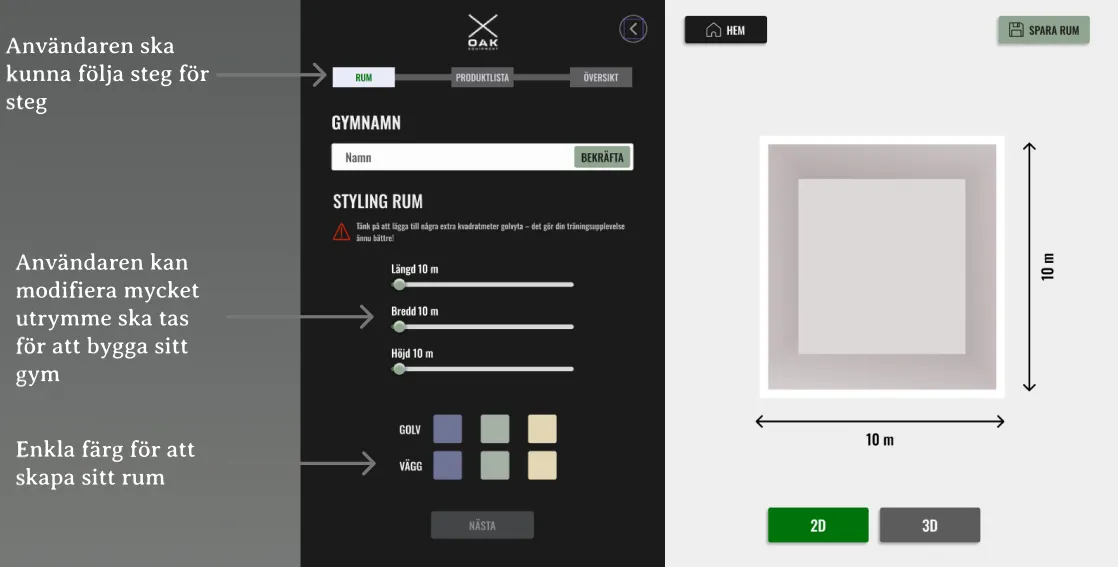
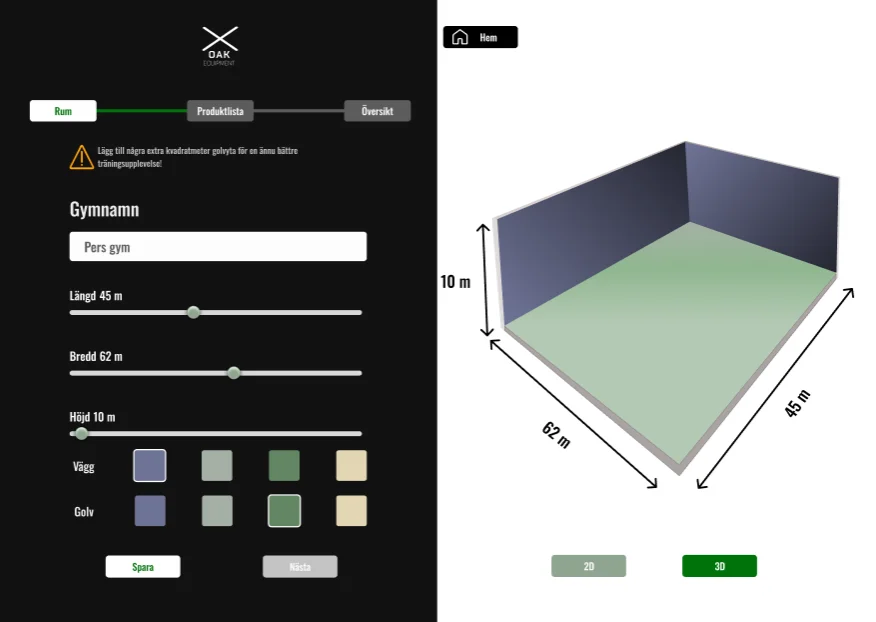
feat: conectar tarjeta OAK con video-demo, actualizar capturas oak_4/oak_5, agregar oak_6 con texto alternativo en 3 idiomas

diff --git a/src/i18n/translations.js b/src/i18n/translations.js
@@ -219,7 +219,7 @@ export const translations = {
             { score: "6/10", text: "Ville hoppa direkt till produktsidan" },
             { score: "5/10", text: "Önskar tydligare progressbar" },
           ],
-          links: [{ label: "Se UX-dokumentation", icon: "↗" }, { label: "Se UI-dokumentation", icon: "↗" }, { label: "Se case study", icon: "→" }],
+          links: [{ label: "Se UX-dokumentation", icon: "↗" }, { label: "Se UI-dokumentation", icon: "↗" }, { label: "Se case study", icon: "→" }, { label: "Se video-demo", icon: "→" }],
           uxRoleTitle: "Min roll · UX",
           uiRoleTitle: "Min roll · UI",
         },
@@ -265,6 +265,7 @@ export const translations = {
         { alt: "OAK — produktkatalog och träningsredskap",       label: "Produktkatalog & träningsredskap" },
         { alt: "OAK — 3D-navigering, zooma och rotera i rummet", label: "3D-navigering · Zooma & rotera" },
         { alt: "OAK — Lo-Fi wireframe version 1",                label: "Lo-Fi wireframe · v1" },
+        { alt: "OAK — produktkatalog och tom 3D-vy utan overlay", label: "Produktkatalog · 3D-vy" },
       ],
       ahr: {
         utmaning:   "Byråchefer förlorade pengar utan att veta varför — Fortnox Tid, Lön och Fakturering kommunicerade inte med varandra.",
@@ -734,7 +735,7 @@ export const translations = {
             { score: "6/10", text: "Wanted to jump directly to product page" },
             { score: "5/10", text: "Clearer progress bar desired" },
           ],
-          links: [{ label: "View UX documentation", icon: "↗" }, { label: "View UI documentation", icon: "↗" }, { label: "View case study", icon: "→" }],
+          links: [{ label: "View UX documentation", icon: "↗" }, { label: "View UI documentation", icon: "↗" }, { label: "View case study", icon: "→" }, { label: "See video demo", icon: "→" }],
           uxRoleTitle: "My role · UX",
           uiRoleTitle: "My role · UI",
         },
@@ -780,6 +781,7 @@ export const translations = {
         { alt: "OAK — product catalogue and equipment",        label: "Product catalogue & equipment" },
         { alt: "OAK — 3D navigation, zoom and rotate",         label: "3D navigation · Zoom & rotate" },
         { alt: "OAK — Lo-Fi wireframe version 1",              label: "Lo-Fi wireframe · v1" },
+        { alt: "OAK — product catalog and empty 3D view without overlay", label: "Product catalog · 3D view" },
       ],
       ahr: {
         utmaning:   "Agency managers were losing money without knowing why — Fortnox Time, Payroll and Invoicing did not communicate with each other.",
@@ -1244,7 +1246,7 @@ export const translations = {
             { score: "6/10", text: "Quería ir directo a la página de producto" },
             { score: "5/10", text: "Barra de progreso más clara deseada" },
           ],
-          links: [{ label: "Ver documentación UX", icon: "↗" }, { label: "Ver documentación UI", icon: "↗" }, { label: "Ver case study", icon: "→" }],
+          links: [{ label: "Ver documentación UX", icon: "↗" }, { label: "Ver documentación UI", icon: "↗" }, { label: "Ver case study", icon: "→" }, { label: "Ver video demo", icon: "→" }],
           uxRoleTitle: "Mi rol · UX",
           uiRoleTitle: "Mi rol · UI",
         },
@@ -1290,6 +1292,7 @@ export const translations = {
         { alt: "OAK — catálogo de productos y equipamiento",             label: "Catálogo de productos & equipamiento" },
         { alt: "OAK — navegación 3D, zoom y rotación",                   label: "Navegación 3D · Zoom & rotación" },
         { alt: "OAK — Lo-Fi wireframe versión 1",                        label: "Lo-Fi wireframe · v1" },
+        { alt: "OAK — catálogo de productos y vista 3D vacía sin overlay", label: "Catálogo de productos · vista 3D" },
       ],
       ahr: {
         utmaning:   "Los directores de agencia perdían dinero sin saber por qué — Fortnox Tiempo, Nómina y Facturación no se comunicaban entre sí.",

diff --git a/src/components/ProjekterIsland.jsx b/src/components/ProjekterIsland.jsx
@@ -11,13 +11,13 @@ const LB_LABELS = {
 
 
 const AHR_IMGS = ["/images/ahr_1.webp", "/images/ahr_2.webp", "/images/ahr_3.webp"];
-const OAK_IMGS = ["/images/oak_1.webp", "/images/oak_2.webp", "/images/oak_3.webp", "/images/oak_4.webp", "/images/oak_5.webp"];
+const OAK_IMGS = ["/images/oak_1.webp", "/images/oak_2.webp", "/images/oak_3.webp", "/images/oak_4.webp", "/images/oak_5.webp", "/images/oak_6.webp"];
 
 const PROJECT_IMAGES  = ["/images/oak.webp", "/images/solenia.webp", "/images/magasin.webp"];
 const PROJECT_COLORS  = ["#90a590", "#ffa205", "#00a6b4"];
 const PROJECT_IDS     = ["oak", "ehandel", "magasin"];
 const PROJECT_LINKS   = [
-  [{ url: "/OAK-UX.pdf", external: false }, { url: "/OAK-UI.pdf", external: false }, { url: "/projekter/oak-case", external: false, internal: true }],
+  [{ url: "/OAK-UX.pdf", external: false }, { url: "/OAK-UI.pdf", external: false }, { url: "/projekter/oak-case", external: false, internal: true }, { url: "/uxuidesign/1", external: false, internal: true }],
   [{ url: "https://solenia.netlify.app/", external: true }, { url: "https://github.com/LordNelson83/Nelson_Portfolio", external: true }],
   [{ url: "/Magasin.pdf", external: false }],
 ];

diff --git a/src/components/OakCaseIsland.jsx b/src/components/OakCaseIsland.jsx
@@ -8,7 +8,7 @@ const LB_LABELS = {
 };
 
 
-const IMGS = ["/images/oak_1.webp", "/images/oak_2.webp", "/images/oak_3.webp", "/images/oak_4.webp", "/images/oak_5.webp"];
+const IMGS = ["/images/oak_1.webp", "/images/oak_2.webp", "/images/oak_3.webp", "/images/oak_4.webp", "/images/oak_5.webp", "/images/oak_6.webp"];
 
 export default function OakCaseIsland({ oakData, lang }) {
   const heroRef  = useRef(null);